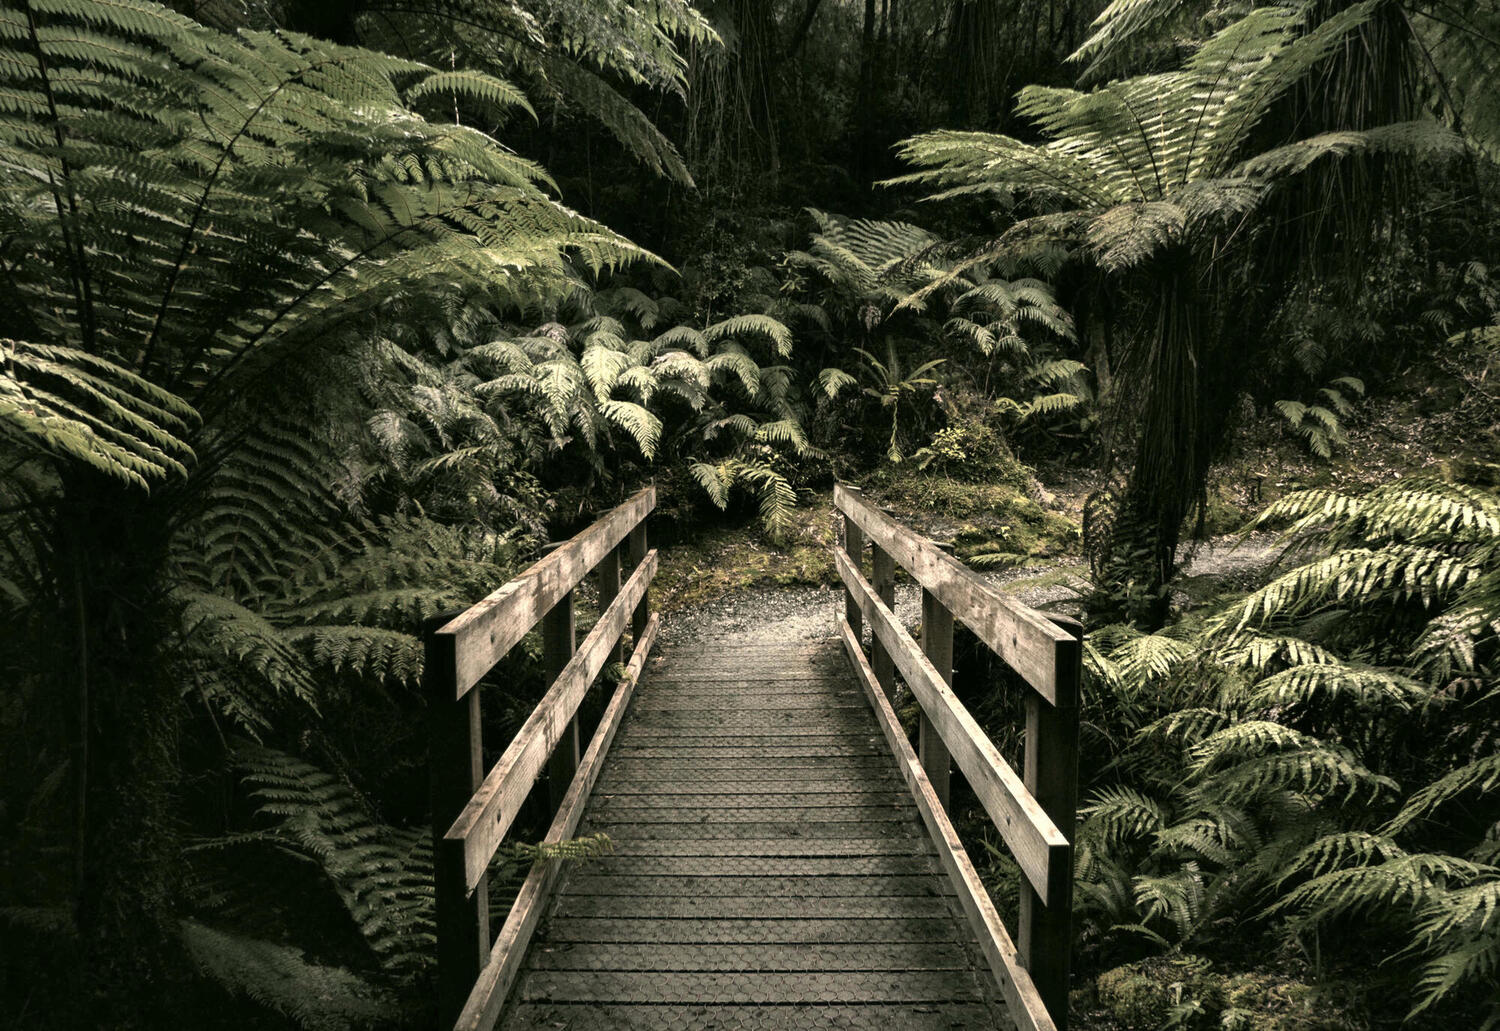
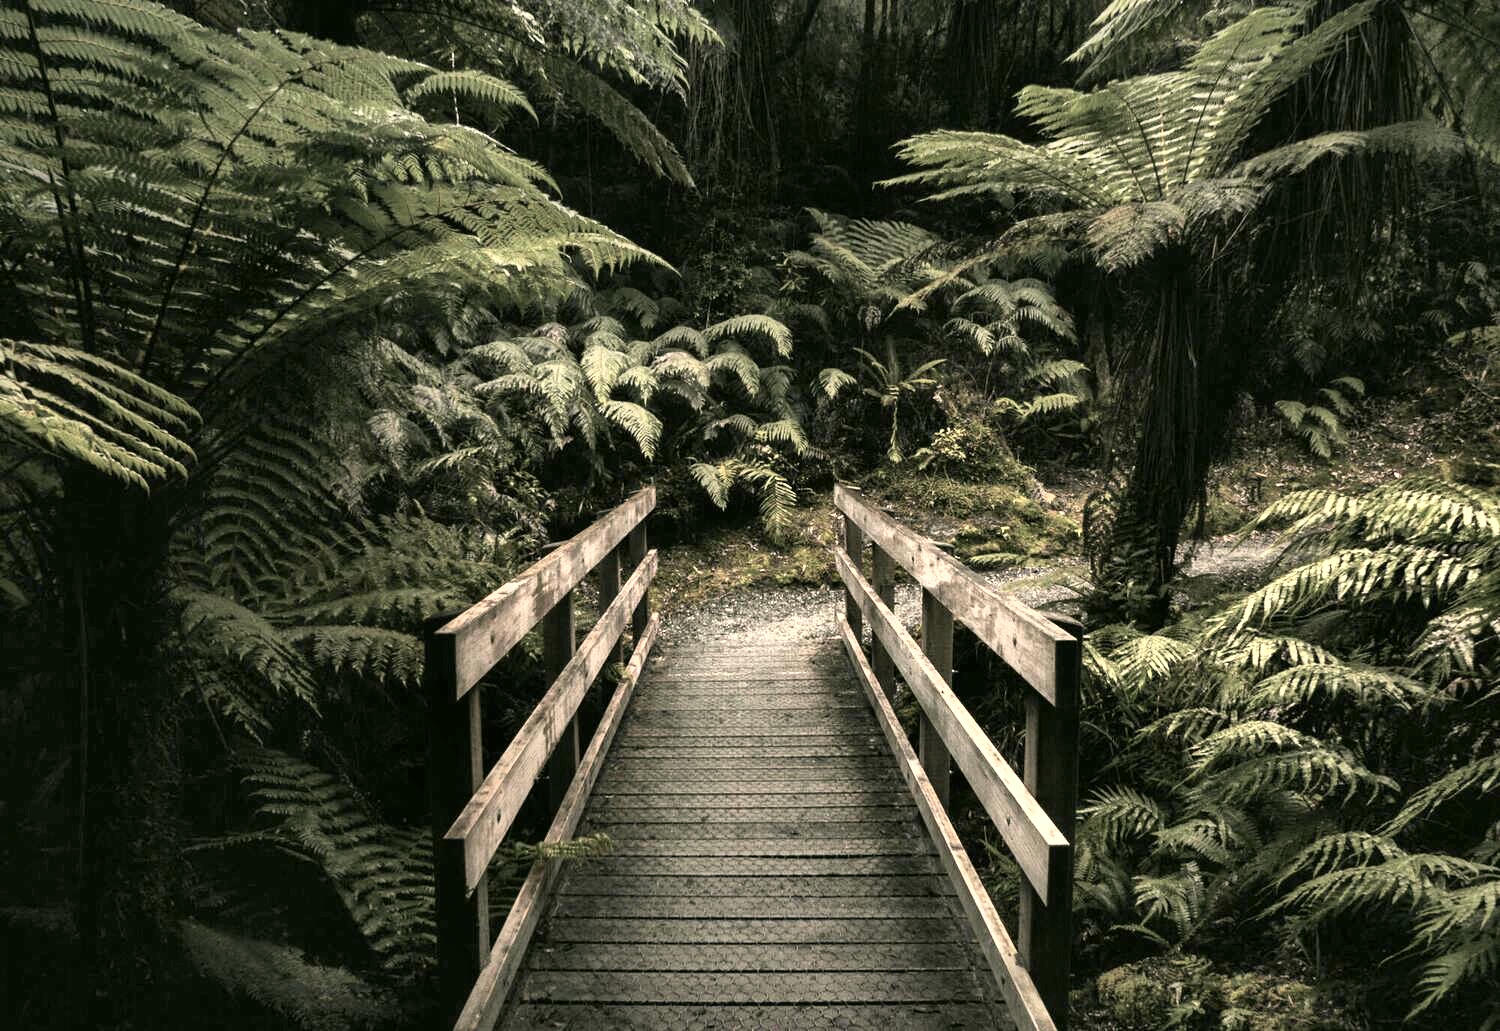
Up version, rayon

diff --git a/src/app/src/main.rs b/src/app/src/main.rs
@@ -5,7 +5,7 @@ use std::time::Instant;
 use histogram_equalization::{ahe_hsl_rgb, ahe_hsv_rgb, ahe_lab_rgb, ahe_yuv_rgb, clahe_jzazbz_bgra, clahe_jzazbz_rgb, clahe_lab_bgra, clahe_lab_rgb, clahe_luv_bgra, clahe_luv_rgb, clahe_oklab_bgra, clahe_oklab_rgb, clahe_oklab_rgba, clahe_oklch_bgra, clahe_yuv_bgra, clahe_yuv_rgb, hist_equal_hsl_rgb, hist_equal_lab_rgb, hist_equal_luv_rgb, ClaheGridSize};
 
 fn main() {
-    let img = ImageReader::open("assets/asset_1.jpg")
+    let img = ImageReader::open("assets/forest.jpg")
         .unwrap()
         .decode()
         .unwrap();
@@ -20,13 +20,14 @@ fn main() {
 
     let start_time = Instant::now();
 
-    ahe_hsv_rgb(
+    clahe_oklab_rgb(
         src_bytes,
         stride as u32,
         &mut dst_bytes,
         stride as u32,
         dimensions.0,
         dimensions.1,
+        1.3f32,
         ClaheGridSize::new(8, 8),
         128,
     );
